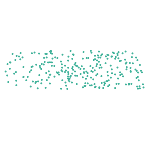
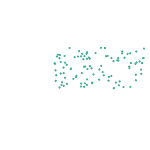
Finished data things

diff --git a/client/dotplot/dotplot.html b/client/dotplot/dotplot.html
@@ -2,23 +2,27 @@
   <div class="dotplot-container animated fadeIn">
     <div class="dotplot-title">
       <h1> {{stock.title}}
-      <div class="title-right">
+      <!-- <div class="title-right">
         <span>{{stock.close}}</span> USD
-      </div>
+      </div> -->
       </h1>
       <h2> NYSE: {{stock.name}}
-           <span style="color: {{stock.color}}">
+           <!-- <span style="color: {{stock.color}}">
              <i class="fa fa-arrow-{{stock.arrow}}"></i>
              {{stock.diff}} ({{stock.percent}}%)
-           </span>
+           </span> -->
       </h2>
     </div>
     <div class="ubar-main"></div>
     <div class="umeter">
-      <div class="um q5">$0.00</div>
-      <div class="um q4">50</div>
-      <div class="um q3">100</div>
-      <div class="um q2">150</div>
+      <div class="um q9">$0.00</div>
+      <div class="um q8">25</div>
+      <div class="um q7">50</div>
+      <div class="um q6">75</div>
+      <div class="um q5">100</div>
+      <div class="um q4">125</div>
+      <div class="um q3">150</div>
+      <div class="um q2">175</div>
       <div class="um q1">200</div>
       <div class="umeter-ticks">
         <div class="utick tick1">.</div>
@@ -30,6 +34,7 @@
         <div class="utick tick7">.</div>
         <!-- <div class="utick tick8">.</div> -->
       </div>
+      {{#if prediction.show}}
       <div class="udots-container">
         <div class="udots" style="left: {{prediction.a1}}px;">
           <div class="ua1 udot" ></div>
@@ -85,6 +90,7 @@
           <div class="ua11 udot"></div>
         </div>
       </div>
+      {{/if}}
     </div>
     <div class="dotplot-legend">Stock Price,&nbsp;<span>12 Month Forecast</span></div>
   </div>

diff --git a/client/dotplot/dotplot.css b/client/dotplot/dotplot.css
@@ -110,10 +110,10 @@ image {
 }
 
 .udot {
-  min-width:  8px;
-  max-width:  8px;
-  min-height: 8px;
-  max-height: 8px;
+  min-width:  7px;
+  max-width:  7px;
+  min-height: 7px;
+  max-height: 7px;
   opacity: 1;
   text-align: center;
   margin: 1px;
@@ -532,11 +532,15 @@ text {
   text-align: center;
 }
 
-.umeter .q1{ position: absolute; left: 185px;}
-.umeter .q2{ position: absolute; left: 135px;}
-.umeter .q3{ position: absolute; left:  85px;}
-.umeter .q4{ position: absolute; left:  35px;}
-.umeter .q5{ position: absolute; left: -15px;}
+.umeter .q1{ position: absolute; left: 185px;} /*200*/
+.umeter .q2{ position: absolute; left: 160px;} /*175*/
+.umeter .q3{ position: absolute; left: 135px;} /*150*/
+.umeter .q4{ position: absolute; left: 110px;} /*145*/
+.umeter .q5{ position: absolute; left:  85px;} /*125*/
+.umeter .q6{ position: absolute; left:  60px;} /*100*/
+.umeter .q7{ position: absolute; left:  35px;} /*75 */
+.umeter .q8{ position: absolute; left:  10px;} /*50 */
+.umeter .q9{ position: absolute; left: -15px;} /*25 */
 
 .dotplot-container .umeter-ticks {
   display: flex;
@@ -556,12 +560,6 @@ text {
   opacity: 0.45;
   position: absolute;
 }
-
-.umeter .q1{ position: absolute; left: 185px;}
-.umeter .q2{ position: absolute; left: 135px;}
-.umeter .q3{ position: absolute; left:  85px;}
-.umeter .q4{ position: absolute; left:  35px;}
-.umeter .q5{ position: absolute; left: -15px;}
 
 .umeter .tick1{ left: 23px;}
 .umeter .tick2{ left: 48px;}

diff --git a/client/dotplot/dotplot.js b/client/dotplot/dotplot.js
@@ -108,11 +108,21 @@ Template.dotplot.helpers({
     m1 = m1/n;
     m2 = m2/n;
 
-    var fit_upr = (m2 * 1) + m1;
-    var fit_lwr = m1;
+    lwr_max = lwr_max/n;
+    lwr_min = lwr_min/n;
+    upr_max = upr_max/n;
+    upr_min = upr_min/n;
+    fit_lwr = fit_lwr/n;
+    fit_upr = fit_upr/n;
 
     y = (m2 * c) + m1;
     v = (200 * y).toFixed(2);
+
+    lwr = ((lwr_min) + ((lwr_max - lwr_min) * c));
+    upr = ((upr_min) + ((upr_max - upr_min) * c));
+
+    upr_c = (upr-y)/5;
+    lwr_c = (y-lwr)/5;
 
     if(y < 0) y = 0;
     if(c < 0) c = 0;
@@ -121,17 +131,17 @@ Template.dotplot.helpers({
     if(c > 100) c = 100
 
   return {
-    a1: (fit_upr*200)-14,
-    a2: (y*200)-14,
-    a3: (y*200)-14,
-    a4: (y*200)-14,
-    a5: (y*200)-14,
+    a1: (upr*200)-14,
+    a2: ((y+(upr_c*4))*200)-14,
+    a3: ((y+(upr_c*3))*200)-14,
+    a4: ((y+(upr_c*2))*200)-14,
+    a5: ((y+(upr_c*1))*200)-14,
     a6: (y*200)-14, // This is correct!
-    a7: (y*200)-14,
-    a8: (y*200)-14,
-    a9: (y*200)-14,
-    a10:(y*200)-14,
-    a11:(fit_lwr*200)-14,
+    a7: ((y-(lwr_c*1))*200)-14,
+    a8: ((y-(lwr_c*2))*200)-14,
+    a9: ((y-(lwr_c*3))*200)-14,
+    a10:((y-(lwr_c*4))*200)-14,
+    a11:(lwr*200)-14,
     text: v,
     p: 0,
     q1: q1,

diff --git a/client/timeseries/series.js b/client/timeseries/series.js
@@ -146,8 +146,18 @@ Template.series.helpers({
     m1 = m1/n;
     m2 = m2/n;
 
-    y = (m2 * c) + m1;
+    lwr_max = lwr_max/n;
+    lwr_min = lwr_min/n;
+    upr_max = upr_max/n;
+    upr_min = upr_min/n;
+    fit_lwr = fit_lwr/n;
+    fit_upr = fit_upr/n;
+
+    y = (m2  * c) + m1;
     v = (200 * y).toFixed(2);
+
+    lwr = ((lwr_min) + ((lwr_max - lwr_min) * c));
+    upr = ((upr_min) + ((upr_max - upr_min) * c));
 
     fit_upr = m2 + m1;
     fit_lwr = m1;
@@ -167,8 +177,8 @@ Template.series.helpers({
       show: show,
       last: (stock.last).toFixed(2),
       start: 100-((stock.last/200)*100),
-      lwr: (100 - (fit_lwr*100)).toFixed(2),
-      upr: (100 - (fit_upr*100)).toFixed(2)
+      lwr: 100 - (lwr*100),
+      upr: 100 - (upr*100)
     }
   }
 });

diff --git a/client/timeseries/series.html b/client/timeseries/series.html
@@ -19,11 +19,11 @@
         <div id="chart-{{stock.name}}" class="chart">
           {{createChart}}
         </div>
-        <!-- <div class="y-axis">
-          <div class="yaxis high">${{this.high}}</div>
-          <div class="yaxis mid"> {{this.mid}}</div>
-          <div class="yaxis low"> {{this.low}}</div>
-        </div> -->
+        <div class="y-axis">
+          <div class="yaxis high">$200</div>
+          <div class="yaxis mid">  100</div>
+          <div class="yaxis low">    0</div>
+        </div>
         <div class="now-legend" style="top: {{this.top}}%">${{prediction.last}}</div>
         <h1 style="text-align: right; margin-top: 0px;"><i class="fa fa-caret-left"></i> Last 12 Months&nbsp;</h1>
       </div>

diff --git a/client/regression/regression.html b/client/regression/regression.html
@@ -2,15 +2,15 @@
   <div class="lifequality-container animated fadeIn">
     <div class="lifequality-title">
       <h1> {{stock.title}}
-        <div class="title-right">
+        <!-- <div class="title-right">
           <span>{{stock.close}}</span> USD
-        </div>
+        </div> -->
       </h1>
       <h2> NYSE: {{stock.name}}
-        <span style="color: {{stock.color}}">
+        <!-- <span style="color: {{stock.color}}">
           <i class="fa fa-arrow-{{stock.arrow}}"></i>
           {{stock.diff}} ({{stock.percent}}%)
-        </span>
+        </span> -->
       </h2>
       <div class="legend-z">Next 12 Months Forecast</div>
     </div>

diff --git a/client/sidebar/sidebar.html b/client/sidebar/sidebar.html
@@ -1,8 +1,8 @@
 <template name="sidebar">
   {{> slider title="Consumer Trust"  color="slider-green"  tag="slider1"}}
   {{> slider title="Worldwide News"  color="slider-purple" tag="slider2"}}
-  {{> slider title="Gold Price"      color="slider-orange" tag="slider3"}}
-  {{> slider title="Interest Rate"   color="slider-blue"   tag="slider4"}}
+  {{> slider title="Factor 3" color="slider-orange" tag="slider3"}}
+  {{> slider title="Factor 4" color="slider-blue"   tag="slider4"}}
   {{> accuracy}}
   <div class="sidebar-debug">{{average}}</div>
 </template>

diff --git a/client/timeseries/chart.css b/client/timeseries/chart.css
@@ -37,7 +37,7 @@
 /*.highcharts-tooltip{ display: none; }*/
 .highcharts-yaxis-title  { display: none; }
 .highcharts-xaxis-labels { display: none; }
-/*.highcharts-yaxis-labels { display: none; }*/
+.highcharts-yaxis-labels { display: none; }
 .highcharts-container svg text   { display:  none; }
 .highcharts-container svg g text { display:  block; }
 .highcharts-background { display: none; }

diff --git a/client/regression/regression.css b/client/regression/regression.css
@@ -19,8 +19,7 @@
   cursor: default;
   /*position: absolute;*/
   bottom: -30px;
-  width: 100%;
-  text-align: center;
+  width: 60%;
   margin-top: 10px;
 }
 
@@ -131,7 +130,7 @@
   left: 0;*/
   width:  150px;
   height: 150px;
-  /*align-self: flex-end;*/
+  align-self: flex-start;
 }
 
 .lifequality-container img {
